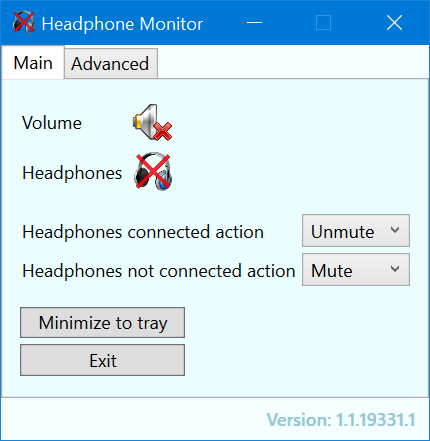
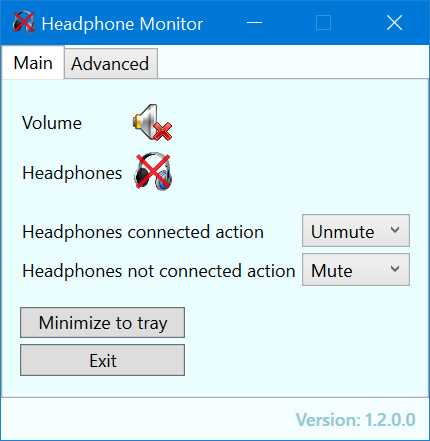
Updated target framework version to v4.8. Updated app version to 1.2.0.0.

Changed region(s): [[0.6047, 0.9138, 0.9674, 0.9728]]

diff --git a/HeadphoneMonitorApp/Properties/Settings.Designer.cs b/HeadphoneMonitorApp/Properties/Settings.Designer.cs
@@ -12,7 +12,7 @@ namespace HeadphoneMonitorApp.Properties {
     
     
     [global::System.Runtime.CompilerServices.CompilerGeneratedAttribute()]
-    [global::System.CodeDom.Compiler.GeneratedCodeAttribute("Microsoft.VisualStudio.Editors.SettingsDesigner.SettingsSingleFileGenerator", "16.3.0.0")]
+    [global::System.CodeDom.Compiler.GeneratedCodeAttribute("Microsoft.VisualStudio.Editors.SettingsDesigner.SettingsSingleFileGenerator", "17.5.0.0")]
     internal sealed partial class Settings : global::System.Configuration.ApplicationSettingsBase {
         
         private static Settings defaultInstance = ((Settings)(global::System.Configuration.ApplicationSettingsBase.Synchronized(new Settings())));

diff --git a/HeadphoneMonitorApp/Properties/Resources.Designer.cs b/HeadphoneMonitorApp/Properties/Resources.Designer.cs
@@ -19,7 +19,7 @@ namespace HeadphoneMonitorApp.Properties {
     // class via a tool like ResGen or Visual Studio.
     // To add or remove a member, edit your .ResX file then rerun ResGen
     // with the /str option, or rebuild your VS project.
-    [global::System.CodeDom.Compiler.GeneratedCodeAttribute("System.Resources.Tools.StronglyTypedResourceBuilder", "16.0.0.0")]
+    [global::System.CodeDom.Compiler.GeneratedCodeAttribute("System.Resources.Tools.StronglyTypedResourceBuilder", "17.0.0.0")]
     [global::System.Diagnostics.DebuggerNonUserCodeAttribute()]
     [global::System.Runtime.CompilerServices.CompilerGeneratedAttribute()]
     internal class Resources {

diff --git a/HeadphoneMonitorApp/Properties/AssemblyInfo.cs b/HeadphoneMonitorApp/Properties/AssemblyInfo.cs
@@ -51,5 +51,5 @@ using System.Windows;
 // You can specify all the values or you can default the Build and Revision Numbers 
 // by using the '*' as shown below:
 // [assembly: AssemblyVersion("1.0.*")]
-[assembly: AssemblyVersion("1.1.19331.1")]
-[assembly: AssemblyFileVersion("1.1.19331.1")]
+[assembly: AssemblyVersion("1.2.0.0")]
+[assembly: AssemblyFileVersion("1.2.0.0")]
